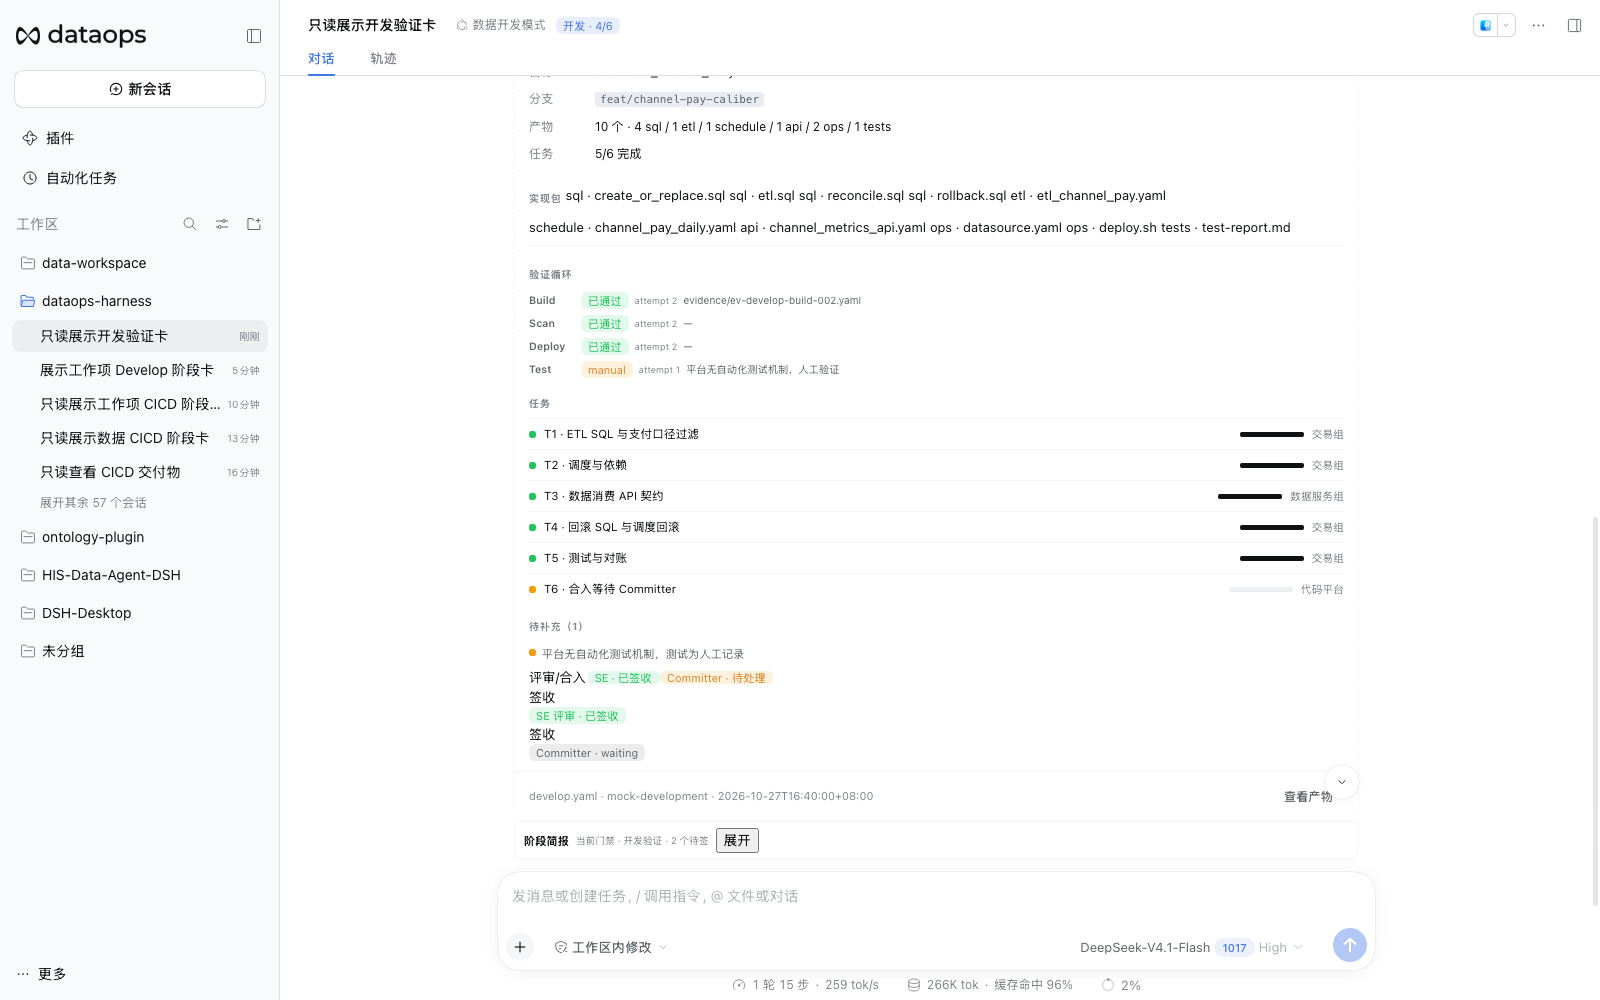
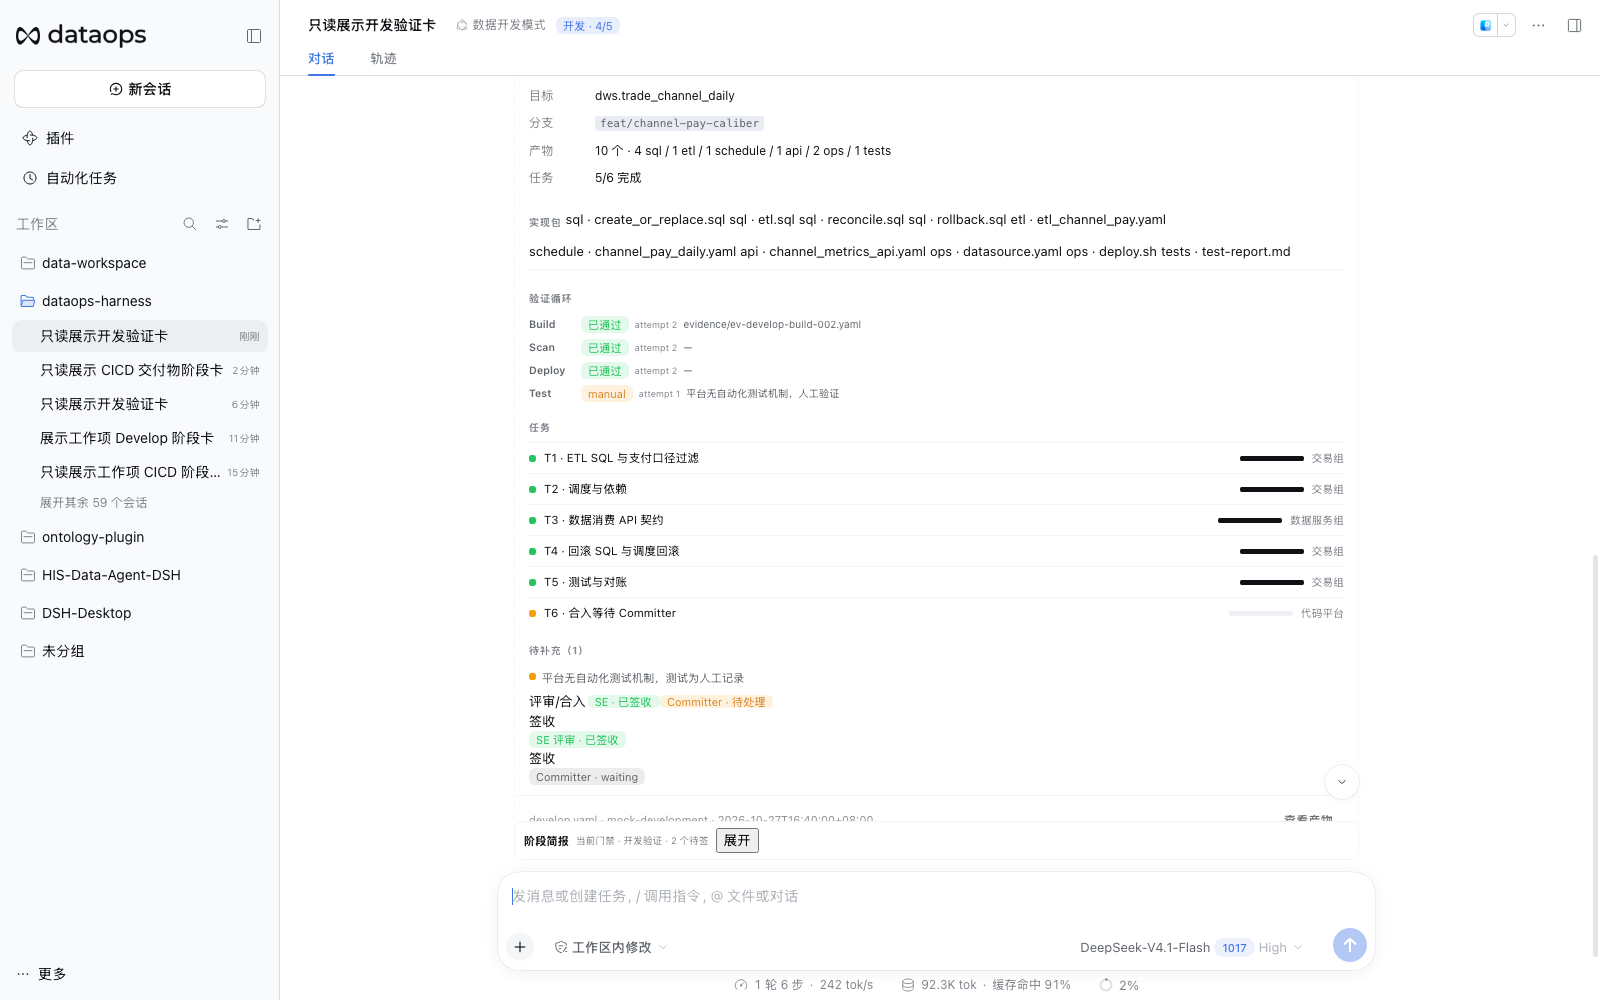
feat: render five-stage journey and harden evidence chips

diff --git a/packages/dataops-client/src/brief.js b/packages/dataops-client/src/brief.js
@@ -18,8 +18,7 @@ export function createStageBrief(React, store, contextStore) {
     { key: 'design', label: '设计', short: '设计', next: '进入方案' },
     { key: 'scheme', label: '方案', short: '方案', next: '开始开发', subs: ['数据挖掘', '数据分析', '需求方案设计', '技术方案输出'] },
     { key: 'develop', label: '开发', short: '开发', next: '进入 CICD' },
-    { key: 'cicd', label: 'CICD', short: 'CICD', next: '进入复盘', subs: ['扫描', '编译构建', '测试', '发布/部署'] },
-    { key: 'review', label: '复盘', short: '复盘', next: '沉淀知识' }
+    { key: 'cicd', label: 'CICD', short: 'CICD', next: 'Stage 5 结束；Stage 6 不在本版', subs: ['扫描', '编译构建', '测试', '发布/部署'] }
   ]
   var KIND_STAGE = {
     intake: 'requirement',
@@ -340,7 +339,7 @@ export function createStageBrief(React, store, contextStore) {
       var node = nodes.length ? nodes[nodes.length - 1] : null
       if (node && typeof node.scrollIntoView === 'function') node.scrollIntoView({ block: 'center', behavior: 'smooth' })
     }
-    var stageDefs = [['requirement', '需求'], ['design', '设计'], ['scheme', '方案'], ['develop', '开发'], ['cicd', 'CICD'], ['review', '复盘']]
+    var stageDefs = [['requirement', '需求'], ['design', '设计'], ['scheme', '方案'], ['develop', '开发'], ['cicd', 'CICD']]
     var cardLabels = { requirement: '需求', design: '设计', analysis: '3a 分析', solution: '3b 方案', tech_plan: '3c 技术方案', develop: '开发验证', cicd: '数据 CICD' }
     var subDefs = { scheme: ['数据挖掘', '数据分析', '需求方案设计', '技术方案输出'], cicd: ['扫描', '编译构建', '测试', '发布/部署'] }
     var activeCards = stageCards(payloads, selected)

diff --git a/packages/dataops-client/src/cards.js b/packages/dataops-client/src/cards.js
@@ -394,8 +394,9 @@ export function createDataopsCards(React) {
   function evidenceChips(ids) {
     var arr = Array.isArray(ids) ? ids : []
     if (!arr.length) return null
-    return h('div', { className: 'do-kv', style: { marginTop: '5px' } }, arr.slice(0, 8).map(function (id, i) {
-      return h('span', { key: i, className: 'do-chip' }, id)
+    return h('div', { className: 'do-kv', style: { marginTop: '5px' } }, arr.slice(0, 8).map(function (item, i) {
+      var label = typeof item === 'string' ? item : (item && (item.id || item.evidenceId || item.asOf || item.query || item.title)) || 'evidence'
+      return h('span', { key: i, className: 'do-chip', title: typeof item === 'object' && item ? JSON.stringify(item).slice(0, 240) : '' }, String(label))
     }))
   }
 
